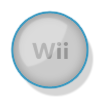
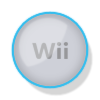
*shitload of color changes to get closer to the original wii menu. *added sliding top and bottom in settings.

Changed region(s): [[0.09, 0.09, 0.9, 0.9]]

diff --git a/source/Settings.cpp b/source/Settings.cpp
@@ -51,6 +51,13 @@ int MenuSettings()
     GuiSound btnClick1(button_click_pcm, button_click_pcm_size, SOUND_PCM, Settings.sfxvolume);
 
 	char imgPath[100];
+	
+	snprintf(imgPath, sizeof(imgPath), "%ssettings_top.png", CFG.theme_path);
+	GuiImageData settingsTop(imgPath, settings_top_png);
+	
+	snprintf(imgPath, sizeof(imgPath), "%ssettings_bottom.png", CFG.theme_path);
+	GuiImageData settingsBottom(imgPath, settings_bottom_png);
+
 
 	snprintf(imgPath, sizeof(imgPath), "%sbutton_dialogue_box.png", CFG.theme_path);
 	GuiImageData btnOutline(imgPath, button_dialogue_box_png);
@@ -80,6 +87,14 @@ int MenuSettings()
 
 	GuiImage creditsImg(&creditsImgData);
 	GuiImage creditsImgOver(&creditsOver);
+	
+	GuiImage settingsTopImg(&settingsTop);
+	settingsTopImg.SetAlignment(ALIGN_LEFT, ALIGN_TOP);
+	settingsTopImg.SetEffect(EFFECT_SLIDE_TOP | EFFECT_SLIDE_IN, 35);
+	
+	GuiImage settingsBottomImg(&settingsBottom);
+	settingsBottomImg.SetAlignment(ALIGN_LEFT, ALIGN_BOTTOM);
+	settingsBottomImg.SetEffect(EFFECT_SLIDE_BOTTOM | EFFECT_SLIDE_IN, 35);
 
     GuiTrigger trigA;
 	trigA.SetSimpleTrigger(-1, WPAD_BUTTON_A | WPAD_CLASSIC_BUTTON_A, PAD_BUTTON_A);
@@ -99,6 +114,7 @@ int MenuSettings()
     GuiText titleTxt(LANGUAGE.settings, 28, (GXColor){0, 0, 0, 255});
 	titleTxt.SetAlignment(ALIGN_CENTRE, ALIGN_TOP);
 	titleTxt.SetPosition(0,40);
+	titleTxt.SetEffect(EFFECT_SLIDE_TOP | EFFECT_SLIDE_IN, 35);
 
     GuiImage settingsbackground(&settingsbg);
 
@@ -112,6 +128,7 @@ int MenuSettings()
 	GuiButton backBtn(&backBtnImg,&backBtnImg, 2, 3, -180, 400, &trigA, &btnSoundOver, &btnClick,1);
 	backBtn.SetLabel(&backBtnTxt);
 	backBtn.SetTrigger(&trigB);
+	backBtn.SetEffect(EFFECT_SLIDE_BOTTOM | EFFECT_SLIDE_IN, 35);
 
 	GuiButton homo(1,1);
 	homo.SetTrigger(&trigHome);
@@ -279,6 +296,8 @@ int MenuSettings()
 			mainWindow->Append(&w);
 			w.RemoveAll();
             w.Append(&settingsbackground);
+			w.Append(&settingsTopImg);
+			w.Append(&settingsBottomImg);
             w.Append(&PageIndicatorBtn1);
             w.Append(&PageIndicatorBtn2);
 			w.Append(&titleTxt);
@@ -378,6 +397,8 @@ int MenuSettings()
 			mainWindow->Append(&w);
 			w.RemoveAll();
             w.Append(&settingsbackground);
+			w.Append(&settingsTopImg);
+			w.Append(&settingsBottomImg);
             w.Append(&PageIndicatorBtn1);
             w.Append(&PageIndicatorBtn2);
 			w.Append(&titleTxt);

diff --git a/source/cfg.c b/source/cfg.c
@@ -299,9 +299,9 @@ void CFG_Default(int widescreen) // -1 = non forced Mode
 		THEME.battery3_y = 425;
 		THEME.battery4_x = 335;
 		THEME.battery4_y = 425;
-		THEME.info_r = 63;
-		THEME.info_g = 154;
-		THEME.info_b = 192;
+		THEME.info_r =  55;
+		THEME.info_g =  190;
+		THEME.info_b =  237;
 		THEME.prompttxt_r = 0;
 		THEME.prompttxt_g = 0;
 		THEME.prompttxt_b = 0;

diff --git a/source/filelist.h b/source/filelist.h
@@ -11,6 +11,12 @@
 
 #include <gccore.h>
 
+extern const u8		settings_top_png[];
+extern const u32	settings_top_png_size;
+
+extern const u8		settings_bottom_png[];
+extern const u32	settings_bottom_png_size;
+
 extern const u8		font_ttf[];
 extern const u32	font_ttf_size;
 
